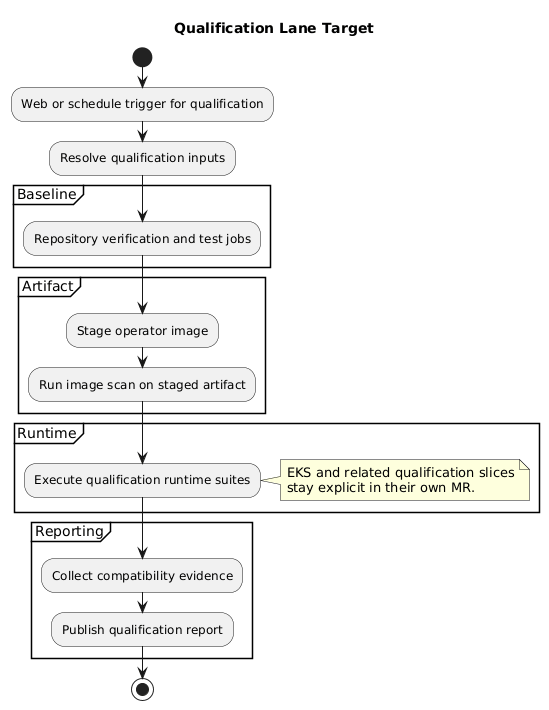
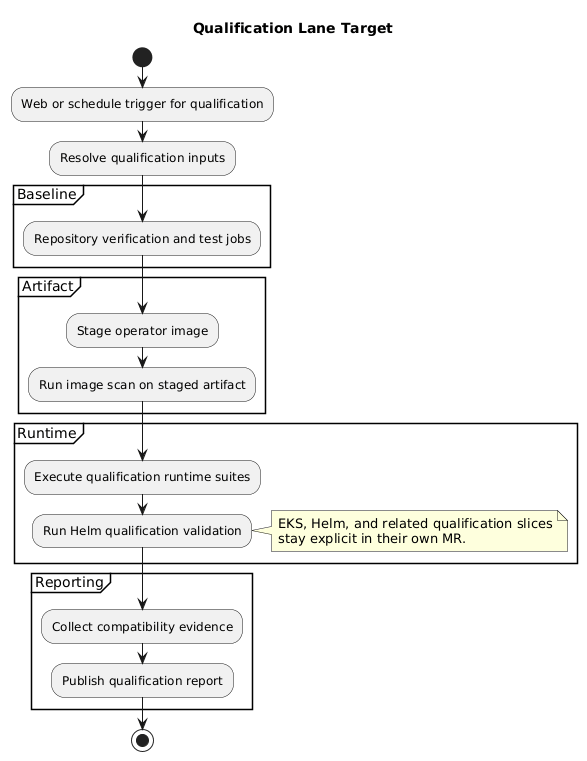
CSPL-4672 docs: add nightly and helm target flows

Changed region(s): [[0.0, 0.062, 0.9909, 0.9915], [0.3097, 0.031, 0.6812, 0.062]]

diff --git a/gitlab-ci/README.md b/gitlab-ci/README.md
@@ -14,4 +14,4 @@
 
 [`gitlab-ci/lib/pipeline-common.sh`](lib/pipeline-common.sh) contains shared runtime helpers for registry resolution, environment loading, tool bootstrap, and artifact checks.
 
-[`gitlab-ci/diagrams/`](diagrams) contains the PlantUML source and rendered PNGs for the current develop lane and the planned qualification and release flows.
+[`gitlab-ci/diagrams/`](diagrams) contains the PlantUML source and rendered PNGs for the current develop lane and the planned nightly, qualification, and release flows.
